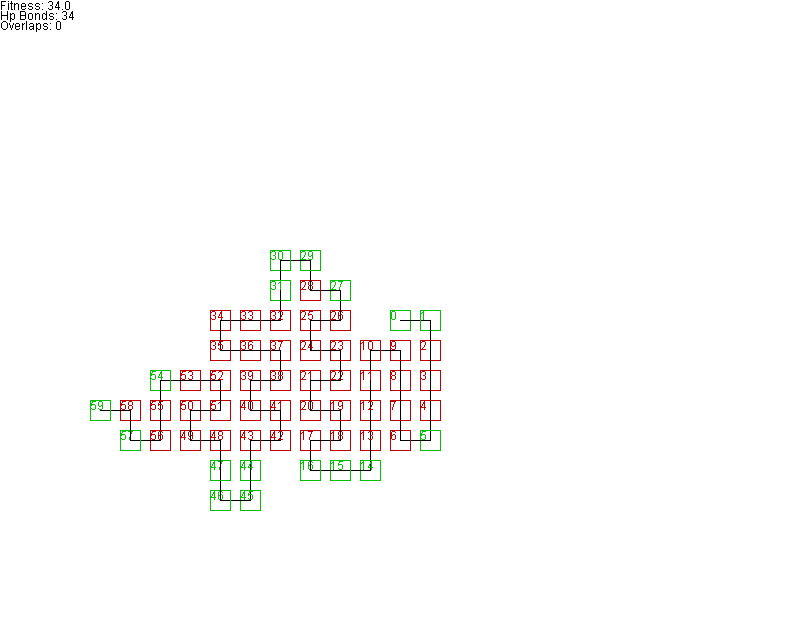
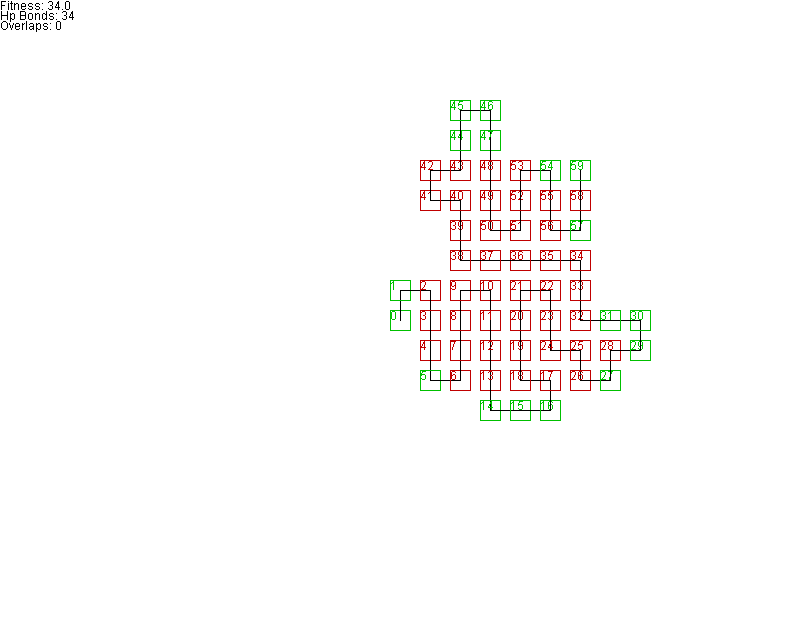
Document best candidate results

Changed region(s): [[0.0938, 0.1562, 0.8125, 0.8125]]

diff --git a/README.md b/README.md
@@ -9,8 +9,12 @@ Jan Parisek (734059)
 ## Results
 Reference specs: i7-4790K, DDR3-1600 memory
 
+### Average results
+Usually above 30.
+Around 7-8 seconds.
+
 ### Best run
-The following candidate was achieved within 22 seconds.
+The following candidate was achieved within 7.6 seconds.
 
 ![](docs/best/candidate.png)
 *Rendering of the best candidate.*
